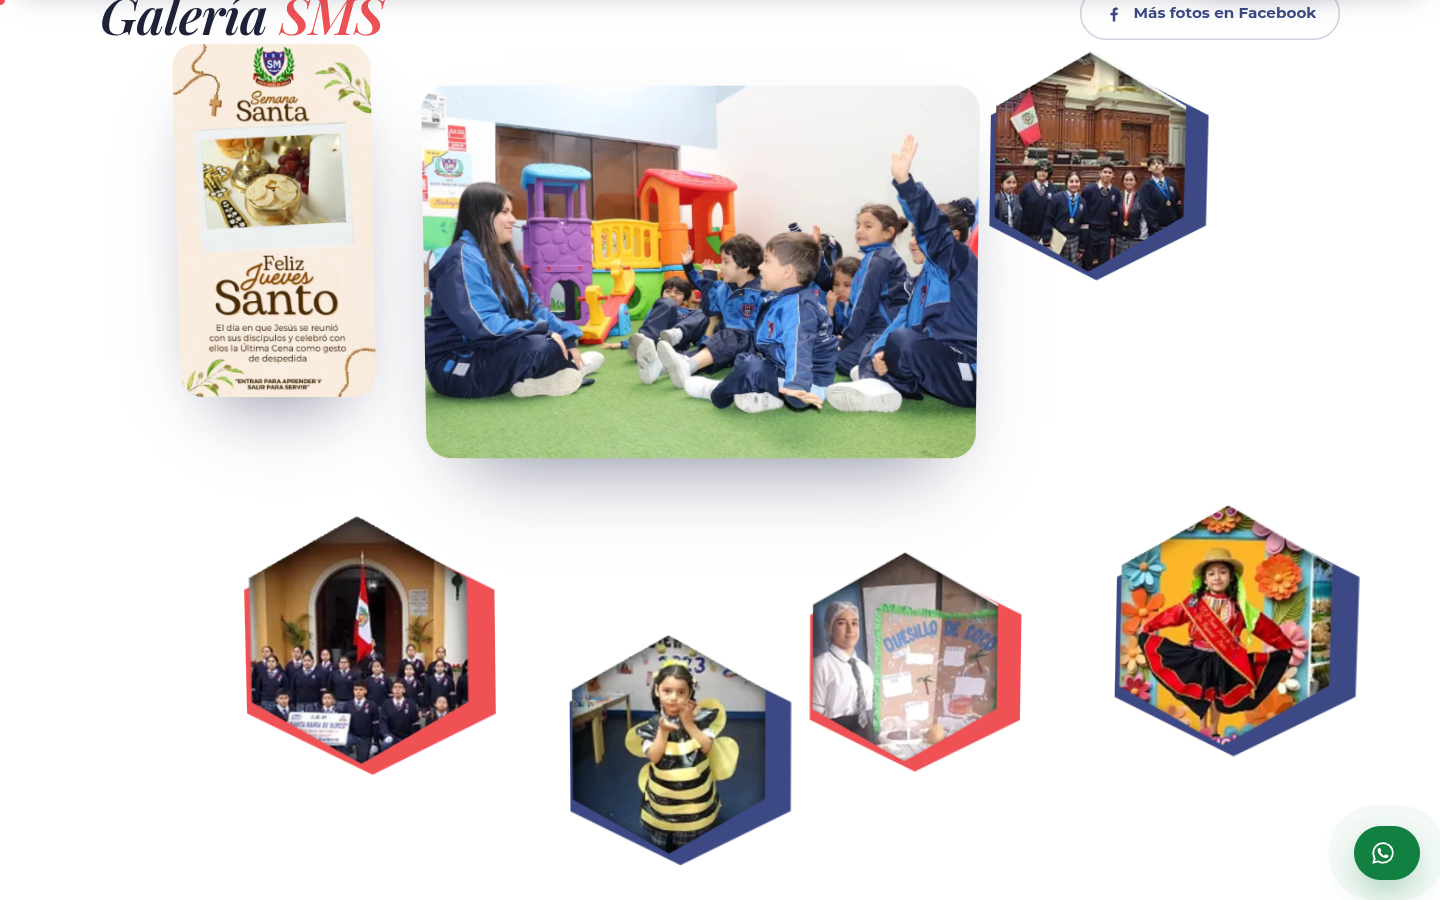
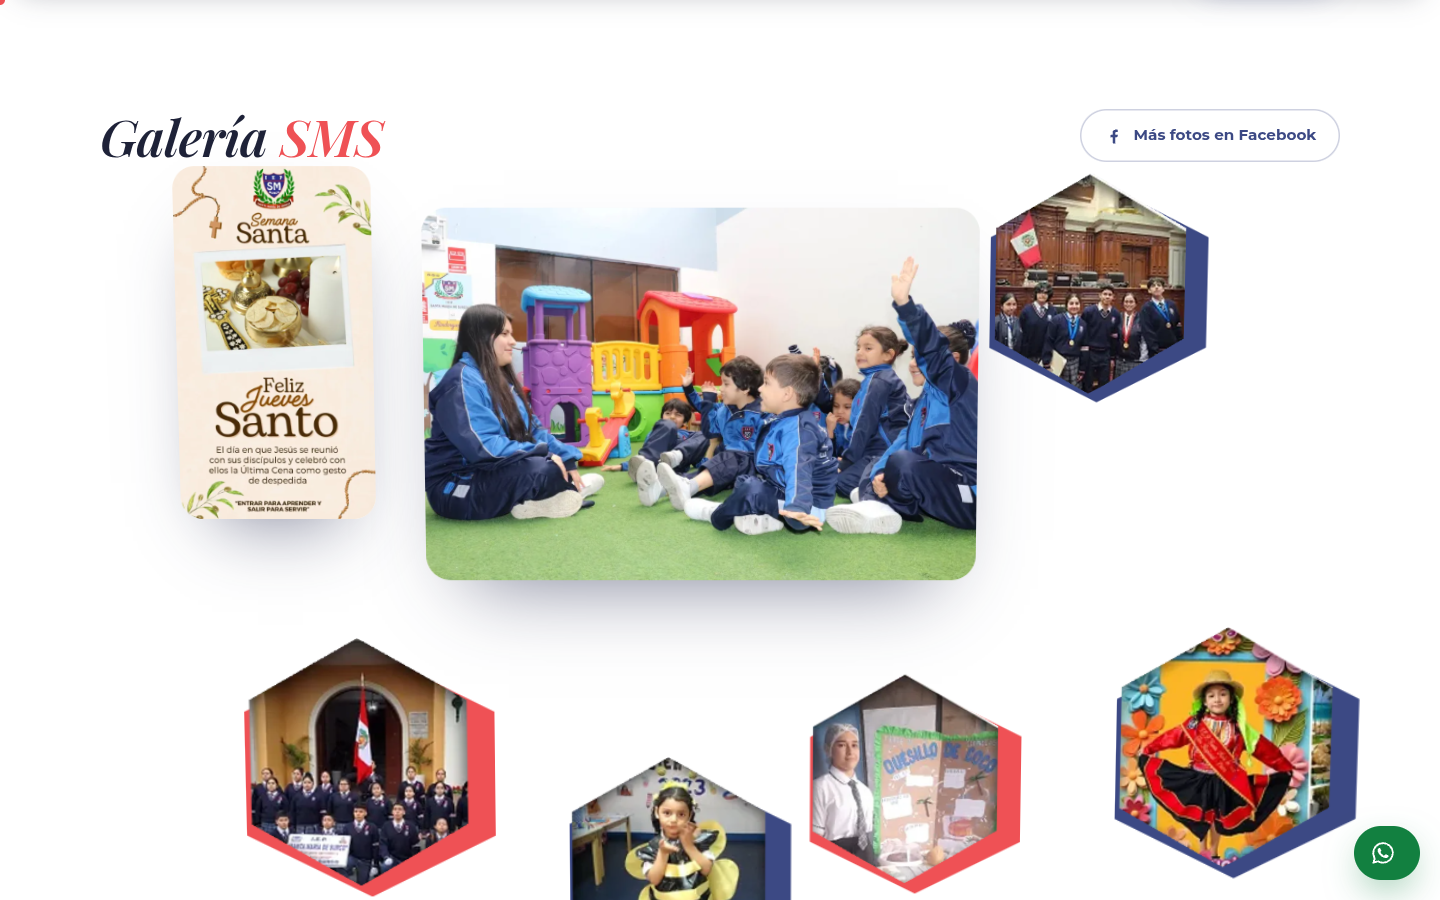
Corrige el hero de escritorio: contenido visible aunque la intro falle o tarde, señal data-intro en el DOM, capturas que esperan el fin de la intro y capturas regeneradas
- Estado final visible por defecto; GSAP solo anima desde oculto y limpia estilos al terminar
- Failsafes: loader 4,5 s, intro del hero 4 s, red de seguridad CSS a los 9 s (data-intro=forced) y hero estático en <noscript>
- Señales data-intro / data-hero3d en <html>; el script de capturas las espera y verifica titular, texto y botones
- QA: rAF congelado, red de seguridad CSS y sin JavaScript
- Encuadre de la captura de galería y README actualizado

diff --git a/src/components/Hero.tsx b/src/components/Hero.tsx
@@ -2,6 +2,7 @@ import { Component, lazy, Suspense, useEffect, useRef, useState, type ReactNode 
 import { gsap } from '../lib/gsap'
 import { canUse3D, prefersReducedMotion } from '../lib/env'
 import { scrollToTarget } from '../lib/lenis'
+import { markIntroDone, setHero3DState } from '../lib/intro'
 import { useMagnetic } from '../hooks/useMagnetic'
 import { useInView } from '../hooks/useInView'
 import { SCHOOL, waLink } from '../data/site'
@@ -30,11 +31,31 @@ export default function Hero({ started }: { started: boolean }) {
   const cta1 = useMagnetic<HTMLAnchorElement>()
   const cta2 = useMagnetic<HTMLAnchorElement>()
 
+  // Señal del estado del 3D para QA/capturas
+  useEffect(() => { setHero3DState(use3D ? (ready3D ? 'ready' : 'loading') : 'off') }, [use3D, ready3D])
+
+  // Si el 3D no responde en un tiempo razonable, se queda la versión SVG (siempre visible debajo).
+  useEffect(() => {
+    if (!use3D || ready3D) return
+    const t = window.setTimeout(() => setUse3D(false), 8000)
+    return () => window.clearTimeout(t)
+  }, [use3D, ready3D])
+
   useEffect(() => {
     if (!started || !root.current) return
-    if (prefersReducedMotion()) return
+    // Sin animación (movimiento reducido o pestaña oculta): el contenido ya está en su estado final.
+    if (prefersReducedMotion() || document.hidden) { markIntroDone(); return }
+    const INTRO = '.hero-chip, .hero-word, .hero-underline-path, .hero-fade, .hero-stage'
+    let tl: gsap.core.Timeline | null = null
     const ctx = gsap.context(() => {
-      const tl = gsap.timeline({ defaults: { ease: 'expo.out' } })
+      tl = gsap.timeline({
+        defaults: { ease: 'expo.out' },
+        onComplete: () => {
+          // Estado final = estilos CSS por defecto (visibles): se limpian los estilos en línea de la intro.
+          gsap.set(INTRO, { clearProps: 'transform,opacity,strokeDashoffset' })
+          markIntroDone()
+        },
+      })
       tl.from('.hero-chip', { y: 20, opacity: 0, duration: 0.8 })
         .from('.hero-word', { yPercent: 115, rotate: 4, duration: 1.1, stagger: 0.07 }, '-=0.5')
         .from('.hero-underline-path', { strokeDashoffset: 320, duration: 1.2, ease: 'power3.inOut' }, '-=0.6')
@@ -47,7 +68,16 @@ export default function Hero({ started }: { started: boolean }) {
       gsap.to('.hero-blob-a', { yPercent: 30, ease: 'none', scrollTrigger: { trigger: root.current, start: 'top top', end: 'bottom top', scrub: true } })
       gsap.to('.hero-blob-b', { yPercent: -25, xPercent: 10, ease: 'none', scrollTrigger: { trigger: root.current, start: 'top top', end: 'bottom top', scrub: true } })
     }, root)
-    return () => ctx.revert()
+    // Failsafe: si la intro se atrasa o se interrumpe (equipo lento, rAF pausado), salta al estado final.
+    const failsafe = window.setTimeout(() => { if (tl && tl.progress() < 1) tl.progress(1) }, 4000)
+    // Si la pestaña se oculta a mitad de intro, se completa de inmediato.
+    const onVis = () => { if (document.hidden && tl && tl.progress() < 1) tl.progress(1) }
+    document.addEventListener('visibilitychange', onVis)
+    return () => {
+      window.clearTimeout(failsafe)
+      document.removeEventListener('visibilitychange', onVis)
+      ctx.revert() // revert devuelve los estilos originales (visibles)
+    }
   }, [started])
 
   return (

diff --git a/src/components/Loader.tsx b/src/components/Loader.tsx
@@ -3,26 +3,38 @@ import { gsap } from '../lib/gsap'
 import emblemWhite from '../assets/logo/logo-emblema-blanco.svg'
 
 /** Loader de marca: el emblema se revela y dos cortinas (coral + índigo) suben como páginas. */
-export default function Loader({ onDone }: { onDone: () => void }) {
+/**
+ * onReveal: se llama cuando las cortinas empiezan a subir (el hero arranca su intro debajo).
+ * onDone: se llama al terminar. Ambos tienen un failsafe por tiempo para que el sitio nunca quede tapado.
+ */
+export default function Loader({ onReveal, onDone }: { onReveal: () => void; onDone: () => void }) {
   const root = useRef<HTMLDivElement>(null)
 
   useEffect(() => {
     const el = root.current
     if (!el) return
+    let revealed = false
+    let finished = false
+    const reveal = () => { if (!revealed) { revealed = true; onReveal() } }
+    const finish = () => { reveal(); if (!finished) { finished = true; onDone() } }
+    // Pestaña en segundo plano: requestAnimationFrame no corre, así que no se anima.
+    if (document.hidden) { finish(); return }
+    const failsafe = window.setTimeout(finish, 4500)
     const ctx = gsap.context(() => {
-      const tl = gsap.timeline({ onComplete: onDone })
+      const tl = gsap.timeline({ onComplete: finish })
       tl.from('.ld-emblem', { clipPath: 'inset(100% 0 0 0)', y: 30, duration: 0.9, ease: 'expo.out' })
         .from('.ld-motto span', { yPercent: 110, duration: 0.7, stagger: 0.05, ease: 'expo.out' }, '-=0.5')
         .to('.ld-bar', { scaleX: 1, duration: 0.6, ease: 'power2.inOut' }, '-=0.6')
         .to('.ld-content', { y: -40, opacity: 0, duration: 0.45, ease: 'power2.in' }, '+=0.5')
-        .to('.ld-indigo', { yPercent: -100, duration: 0.85, ease: 'expo.inOut' }, '-=0.15')
+        .call(reveal, undefined, '-=0.15')
+        .to('.ld-indigo', { yPercent: -100, duration: 0.85, ease: 'expo.inOut' }, '<')
         .to('.ld-coral', { yPercent: -100, duration: 0.85, ease: 'expo.inOut' }, '-=0.72')
     }, el)
-    return () => ctx.revert()
-  }, [onDone])
+    return () => { window.clearTimeout(failsafe); ctx.revert() }
+  }, [onReveal, onDone])
 
   return (
-    <div ref={root} className="fixed inset-0 z-[100]" role="status" aria-live="polite" aria-label="Cargando el sitio de I.E.P. Santa María de Surco">
+    <div ref={root} className="site-loader fixed inset-0 z-[100]" role="status" aria-live="polite" aria-label="Cargando el sitio de I.E.P. Santa María de Surco">
       <div className="ld-coral absolute inset-0 bg-coral" />
       <div className="ld-indigo grain absolute inset-0 bg-indigo flex items-center justify-center">
         <div className="ld-content flex flex-col items-center gap-6 text-white">

diff --git a/index.html b/index.html
@@ -57,8 +57,21 @@
   </head>
   <body>
     <div id="root"></div>
+    <!-- Sin JavaScript: hero estático en su estado final (sin animaciones ni elementos ocultos) -->
     <noscript>
-      <p style="padding:2rem;font-family:sans-serif">I.E.P. Santa María de Surco — José Gálvez 371, Santiago de Surco, Lima. Teléfono / WhatsApp: +51 994 703 768. Correo: iepsantamariadesurco.edu@gmail.com</p>
+      <section style="min-height:100vh;display:flex;align-items:center;padding:6rem 1.5rem 3rem;background:#FAF8F5;color:#1D2140;font-family:Montserrat,system-ui,sans-serif">
+        <div style="max-width:1240px;margin:0 auto;width:100%">
+          <img src="/favicon-512.png" alt="I.E.P. Santa María de Surco" width="72" height="72" />
+          <p style="display:inline-block;margin:1.5rem 0 0;padding:.5rem 1rem;border-radius:999px;background:#fff;color:#3C4984;font-weight:600;font-size:.85rem">Admisión 2027 · Inicial, Primaria y Secundaria</p>
+          <h1 style="margin:1.5rem 0 0;font-family:'Playfair Display',Georgia,serif;font-style:italic;font-weight:700;font-size:clamp(2.6rem,7vw,6rem);line-height:1.02">Entrar para <span style="color:#EF5155">aprender,</span><br />salir para <span style="color:#3C4984">servir.</span></h1>
+          <p style="max-width:36rem;margin:1.5rem 0 0;font-size:1.15rem;line-height:1.6;color:#4A4F6A">Colegio privado en Santiago de Surco. Desde 2005 acompañamos a niñas, niños y jóvenes con una educación <strong style="color:#3C4984">integral, ética y humana</strong>.</p>
+          <p style="margin:2rem 0 0;display:flex;flex-wrap:wrap;gap:.75rem">
+            <a href="https://wa.me/51994703768" style="padding:.9rem 1.5rem;border-radius:999px;background:#3C4984;color:#fff;font-weight:600;text-decoration:none">Escríbenos por WhatsApp</a>
+            <a href="tel:+51994703768" style="padding:.9rem 1.5rem;border-radius:999px;border:2px solid #3C4984;color:#3C4984;font-weight:600;text-decoration:none">Llamar: +51 994 703 768</a>
+          </p>
+          <p style="margin:2rem 0 0;font-size:.95rem;color:#4A4F6A">José Gálvez 371, Santiago de Surco, Lima · iepsantamariadesurco.edu@gmail.com</p>
+        </div>
+      </section>
     </noscript>
     <script type="module" src="/src/main.tsx"></script>
   </body>

diff --git a/src/App.tsx b/src/App.tsx
@@ -22,7 +22,9 @@ const skipLoader = () => prefersReducedMotion() || new URLSearchParams(window.lo
 
 export default function App() {
   const [loading, setLoading] = useState(() => !skipLoader())
+  const [revealed, setRevealed] = useState(() => skipLoader())
   const done = useCallback(() => setLoading(false), [])
+  const reveal = useCallback(() => setRevealed(true), [])
 
   useEffect(() => { initLenis() }, [])
 
@@ -37,18 +39,29 @@ export default function App() {
       })
       gsap.set('.reveal', { opacity: 0, y: 40 })
     })
+    // Failsafe: si algún .reveal quedó oculto dentro de la pantalla (trigger perdido, salto brusco), se muestra.
+    const rescue = () => {
+      document.querySelectorAll<HTMLElement>('.reveal').forEach((el) => {
+        const r = el.getBoundingClientRect()
+        if (r.top < window.innerHeight && r.bottom > 0 && parseFloat(getComputedStyle(el).opacity) < 0.05 && !gsap.isTweening(el)) {
+          gsap.to(el, { opacity: 1, y: 0, duration: 0.6, ease: 'power2.out' })
+        }
+      })
+    }
+    ScrollTrigger.addEventListener('scrollEnd', rescue)
+    const rescueTimer = window.setInterval(rescue, 2500)
     const t = window.setTimeout(() => ScrollTrigger.refresh(), 600)
     window.addEventListener('load', () => ScrollTrigger.refresh())
-    return () => { ctx.revert(); window.clearTimeout(t) }
+    return () => { ctx.revert(); window.clearTimeout(t); window.clearInterval(rescueTimer); ScrollTrigger.removeEventListener('scrollEnd', rescue) }
   }, [])
 
   return (
     <>
-      {loading && <Loader onDone={done} />}
+      {loading && <Loader onReveal={reveal} onDone={done} />}
       <Cursor />
       <Nav />
       <main id="contenido">
-        <Hero started={!loading} />
+        <Hero started={revealed} />
         <Marquee />
         <About />
         <Counters />

diff --git a/src/components/SchoolLife.tsx b/src/components/SchoolLife.tsx
@@ -86,7 +86,7 @@ export default function SchoolLife() {
         </div>
       </div>
 
-      <ul ref={rail} className="mt-12 flex gap-4 overflow-x-auto snap-x snap-mandatory pb-6 px-[max(1.25rem,calc((100vw-1240px)/2))] [scrollbar-width:thin]" tabIndex={0} aria-label="Actividades anuales del colegio">
+      <ul ref={rail} className="mt-12 flex gap-4 overflow-x-auto snap-x snap-mandatory pb-6 px-[max(1.25rem,calc((100vw_-_1240px)/2))] scroll-px-[max(1.25rem,calc((100vw_-_1240px)/2))] [scrollbar-width:thin]" tabIndex={0} aria-label="Actividades anuales del colegio">
         {ACTIVITIES.map((a, i) => {
           const style = ['bg-indigo text-white', 'bg-coral-soft text-ink', 'bg-paper text-ink ring-1 ring-indigo/10', 'bg-indigo-soft text-ink'][i % 4]
           return (
@@ -107,7 +107,7 @@ export default function SchoolLife() {
       {/* Galería con profundidad */}
       <div className="container-x mt-20 md:mt-28">
         <div className="flex flex-wrap items-end justify-between gap-6">
-          <h3 className="display text-[clamp(2rem,4vw,3.2rem)] text-ink">Galería <span className="text-coral">SMS</span></h3>
+          <h3 id="galeria" className="display scroll-mt-28 text-[clamp(2rem,4vw,3.2rem)] text-ink">Galería <span className="text-coral">SMS</span></h3>
           <a href={SCHOOL.facebook} target="_blank" rel="noopener noreferrer" className="btn btn-ghost"><IconFacebook size={20} /> Más fotos en Facebook</a>
         </div>
         <div className="depth-stage relative mt-10 lg:h-[860px] [perspective:1400px]">

diff --git a/src/components/About.tsx b/src/components/About.tsx
@@ -21,7 +21,7 @@ export default function About() {
   useEffect(() => {
     if (!root.current || prefersReducedMotion()) return
     const ctx = gsap.context(() => {
-      gsap.fromTo('.stmt-word', { opacity: 0.14 }, { opacity: 1, stagger: 0.08, ease: 'none', scrollTrigger: { trigger: '.stmt', start: 'top 80%', end: 'bottom 45%', scrub: true } })
+      gsap.fromTo('.stmt-word', { opacity: 0.14 }, { opacity: 1, stagger: 0.08, ease: 'none', scrollTrigger: { trigger: '.stmt', start: 'top 85%', end: 'bottom 70%', scrub: true } })
       gsap.fromTo('.about-img', { scale: 1.18 }, { scale: 1, ease: 'none', scrollTrigger: { trigger: '.about-frame', start: 'top bottom', end: 'bottom top', scrub: true } })
       gsap.fromTo('.about-frame', { clipPath: 'inset(18% 12% 18% 12% round 220px 220px 32px 32px)' }, { clipPath: 'inset(0% 0% 0% 0% round 220px 220px 32px 32px)', ease: 'power2.out', scrollTrigger: { trigger: '.about-frame', start: 'top 90%', end: 'top 35%', scrub: true } })
       gsap.from('.about-quote', { y: 60, opacity: 0, rotate: -4, duration: 1, ease: 'expo.out', scrollTrigger: { trigger: '.about-frame', start: 'top 60%' } })

diff --git a/src/lib/intro.ts b/src/lib/intro.ts
@@ -1,0 +1,23 @@
+/**
+ * Señales de estado en <html> para QA/capturas:
+ *  data-intro="done"      → la intro del hero terminó (o se omitió) y el contenido está en su estado final.
+ *  data-intro="forced"    → la intro no terminó a tiempo y se forzó el estado final por CSS (red de seguridad).
+ *  data-hero3d="loading" | "ready" | "off"
+ */
+export function markIntroDone() {
+  document.documentElement.dataset.intro = 'done'
+}
+export function setHero3DState(state: 'loading' | 'ready' | 'off') {
+  document.documentElement.dataset.hero3d = state
+}
+
+/**
+ * Última red de seguridad: si por cualquier motivo (error de JS, rAF detenido, timeline que nunca arrancó)
+ * la intro no marcó "done" a tiempo, se fuerza por CSS el estado final visible (ver index.css) y se oculta el loader.
+ */
+export function armIntroSafetyNet(ms = 9000) {
+  window.setTimeout(() => {
+    const d = document.documentElement.dataset
+    if (d.intro !== 'done') d.intro = 'forced'
+  }, ms)
+}

diff --git a/src/index.css b/src/index.css
@@ -110,3 +110,8 @@
   .depth-item { left: var(--x); top: var(--y); width: var(--w); transform-style: preserve-3d; }
   .depth-media { transform-style: preserve-3d; }
 }
+
+/* Red de seguridad de la intro: si no terminó a tiempo, el hero queda en su estado final visible. */
+html[data-intro='forced'] .site-loader { display: none !important; }
+html[data-intro='forced'] :is(.hero-chip, .hero-word, .hero-fade, .hero-stage, .hero-blob) { opacity: 1 !important; transform: none !important; }
+html[data-intro='forced'] .hero-underline-path { stroke-dashoffset: 0 !important; }

diff --git a/src/main.tsx b/src/main.tsx
@@ -6,6 +6,9 @@ import '@fontsource/playfair-display/latin-600-italic.css'
 import '@fontsource/playfair-display/latin-700-italic.css'
 import './index.css'
 import App from './App'
+import { armIntroSafetyNet } from './lib/intro'
+
+armIntroSafetyNet()
 
 createRoot(document.getElementById('root')!).render(
   <StrictMode>

diff --git a/README.md b/README.md
@@ -80,7 +80,7 @@ npm run preview -- --host 127.0.0.1 --port 47391
 
 # Capturas y QA (con el preview levantado en 127.0.0.1:47391; usa Google Chrome instalado)
 npm run screenshots  # escritorio, móvil y página completa en screenshots/
-npm run qa           # valida formulario, envío simulado y menú móvil
+npm run qa           # valida formulario, envío simulado, menú móvil y robustez del hero (rAF congelado, red de seguridad CSS, sin JS)
 npm run og           # regenera public/og-image.png
 ```
 Para usar el Chromium de Playwright en vez de Chrome: `npx playwright install chromium` y `PW_CHANNEL=chromium npm run screenshots`.
@@ -89,6 +89,12 @@ Para usar el Chromium de Playwright en vez de Chrome: `npx playwright install ch
 - Escritorio: `screenshots/desktop.png` (hero), `screenshots/desktop-*.png` (secciones), `screenshots/desktop-full.png` (página completa, modo movimiento reducido).
 - Móvil (390×844 @2x): `screenshots/mobile.png`, `screenshots/mobile-*.png`, `screenshots/mobile-full.png`, `screenshots/mobile-menu.png`.
 - Formulario: `screenshots/desktop-form-errores.png`, `screenshots/desktop-form-enviado.png`.
+- Robustez del hero: `screenshots/qa-raf-congelado.png` (animaciones detenidas → failsafes) y `screenshots/qa-sin-js.png` (sin JavaScript → hero estático del `<noscript>`).
+
+### Intro del hero y capturas
+- El estado **por defecto** del hero (CSS) es el final y visible; GSAP solo anima *desde* oculto cuando arranca la intro y, al terminar, limpia los estilos en línea.
+- Redes de seguridad: el loader se retira a los 4,5 s pase lo que pase, la intro del hero salta a su estado final a los 4 s si se atrasa (o si la pestaña se oculta), y a los 9 s una regla CSS (`html[data-intro="forced"]`) fuerza todo visible aunque falle JS/GSAP. Sin JavaScript se muestra un hero estático en `<noscript>`.
+- Señales en `<html>` para QA: `data-intro="done"` cuando la intro termina (o `"forced"` si actuó la red de seguridad) y `data-hero3d="loading|ready|off"`. `npm run screenshots` espera `data-intro` + que el 3D deje de cargar + el fundido SVG→3D, y además comprueba que titular, texto y botones estén en su estado final antes de capturar (si no, lo reporta como error).
 
 ## Créditos de imágenes
 - Todas las fotos son **del propio colegio** (web oficial y Facebook): aula de Inicial (`IMG_7750.jpg`), afiche de Semana Santa 2024 y recortes del collage de actividades (desfile, feria, visita institucional, abejita, danza). Logo oficial del colegio. No se usaron bancos de imágenes. Las fotos de los banners de servicios de la web actual (aparentemente de stock) **no** se usaron.
